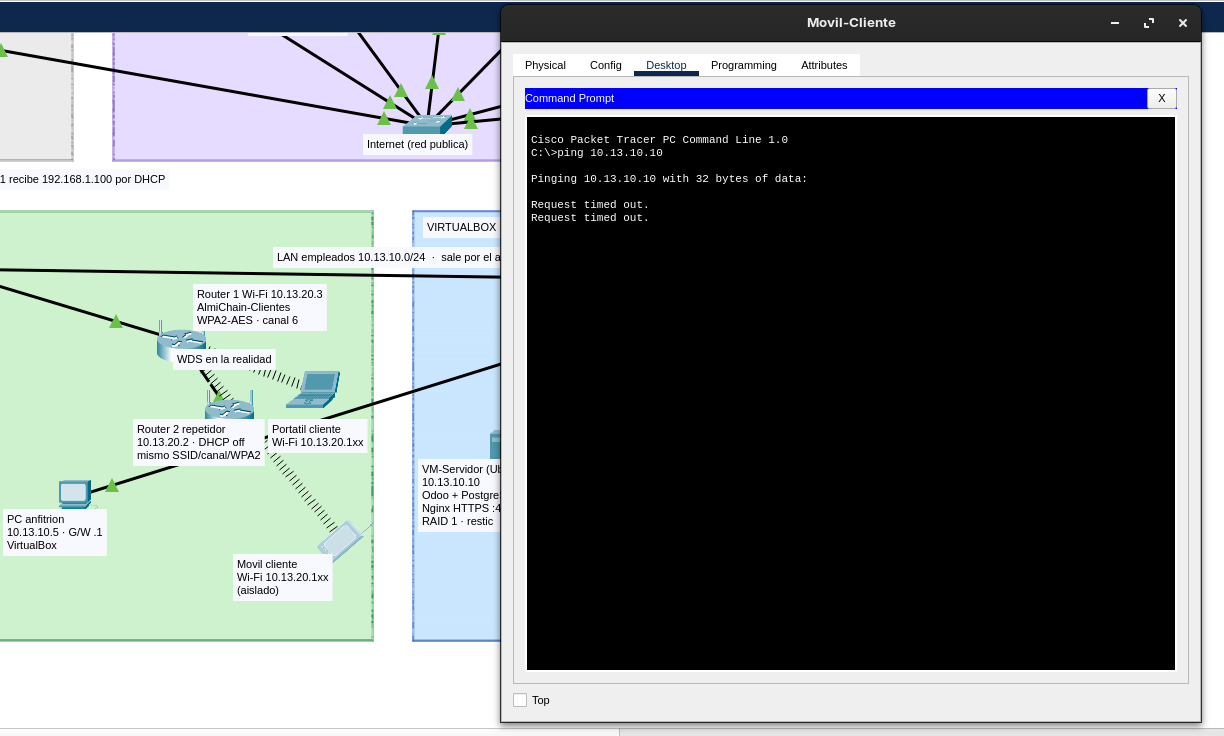
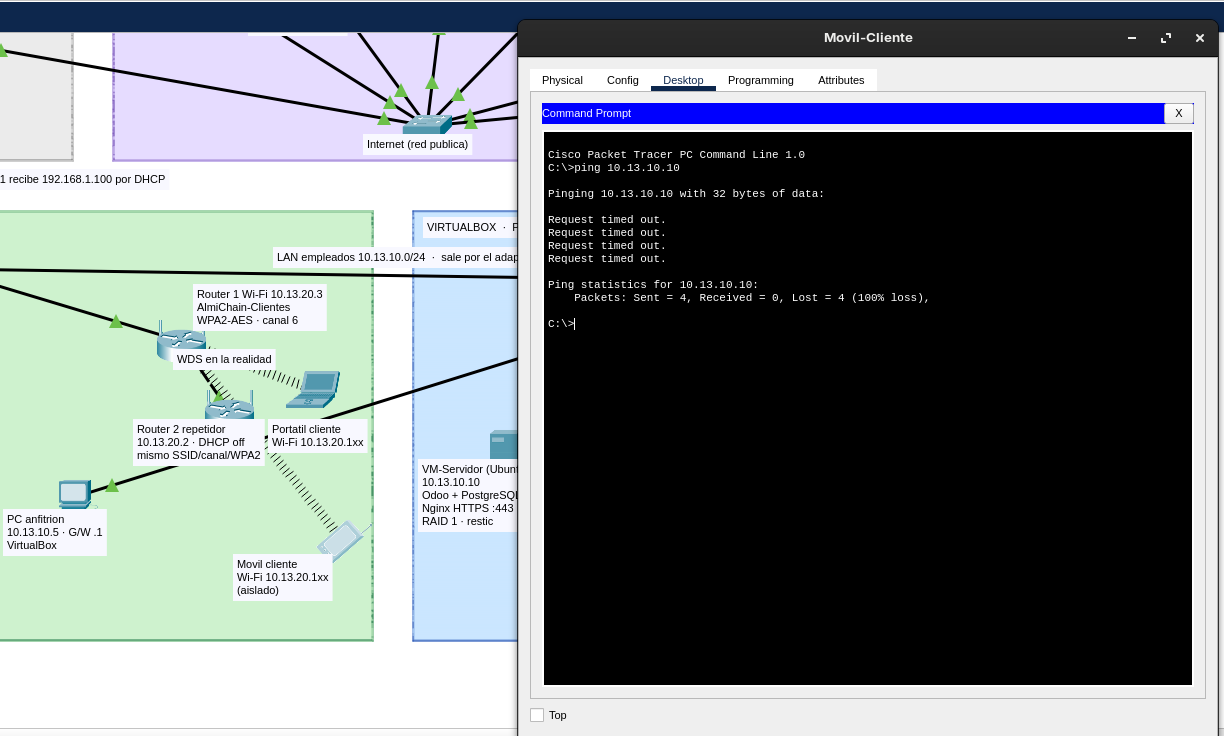
docs(redes): captura completa de la prueba 3 (100 % de pérdida)
Claude-Session: https://claude.ai/code/session_012pbXinxToNpwGW4m48TvVM

Changed region(s): [[0.4036, 0.0, 1.0, 1.0]]

diff --git a/redes/README.md b/redes/README.md
@@ -100,7 +100,7 @@ La profesora solo pide el esquema en Packet Tracer, y ya lo ha validado (prueba 
 | --- | --- | --- | --- |
 | 1 | `ipconfig` en el móvil, cerca del AP-Repetidor | IP `10.13.20.1xx` y puerta de enlace `10.13.20.1` | Opcional |
 | 2 | Desde el móvil, `ping 203.0.113.10` y abrir `http://203.0.113.10` en el navegador | Responde y carga la web: hay salida a internet | Opcional |
-| 3 | Desde el móvil, `ping 10.13.10.10` | **Falla**: la Wi-Fi de clientes está aislada | ✅ 05/11 · `Request timed out`: el móvil de clientes no llega al servidor · [captura](packet-tracer/capturas/pt_03_movil_no_llega_al_servidor.png) |
+| 3 | Desde el móvil, `ping 10.13.10.10` | **Falla**: la Wi-Fi de clientes está aislada | ✅ 05/11 · 4 enviados, 0 recibidos (`100% loss`): el móvil de clientes no llega al servidor · [captura](packet-tracer/capturas/pt_03_movil_no_llega_al_servidor.png) |
 | 4 | Desde el TPV 1, `ping 10.13.10.10` y `ping 203.0.113.10` | Responden los dos | Opcional |
 | 5 | Desde el PC anfitrión, `ssh -l admin 10.13.10.1` | Pide la contraseña y entra | Opcional |
 | 6 | Desde el portátil del cliente, `ssh -l admin 10.13.20.1` | **Rechazado** | Opcional |
